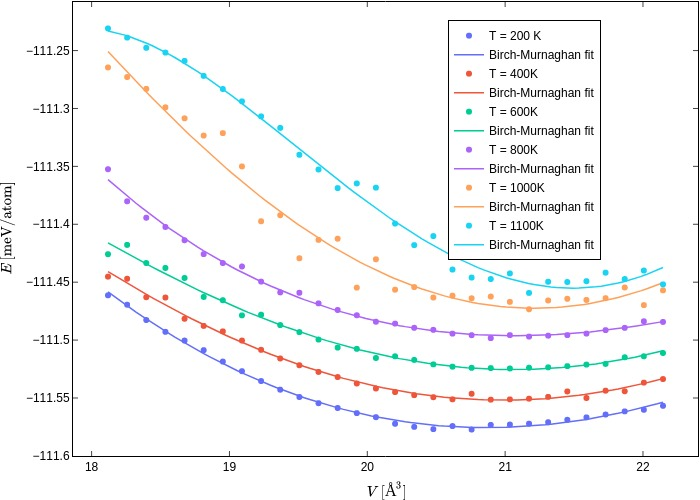
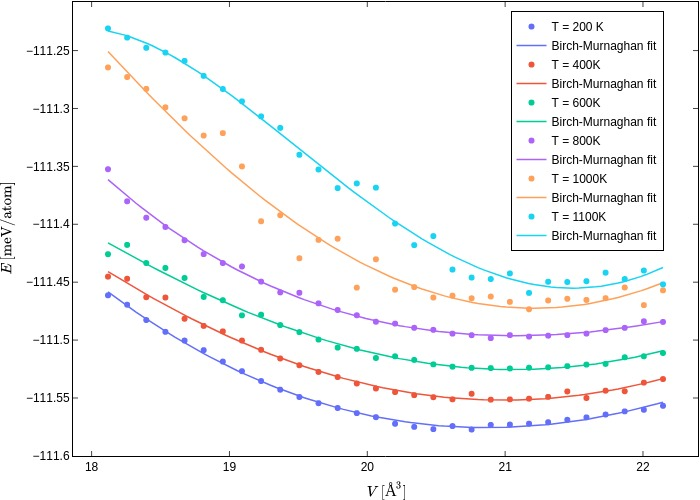
fix: amorphous plot legend

Changed region(s): [[0.63, 0.03, 0.96, 0.54]]

diff --git a/ml4md/plot_amorphous_ev_curves.py b/ml4md/plot_amorphous_ev_curves.py
@@ -85,8 +85,8 @@ def main():
             zeroline=False
         ),
         legend=dict(
-            x=.60,
-            y=.96,
+            x=.70,
+            y=.98,
             traceorder="normal",
             bordercolor="#000",
             borderwidth=1
